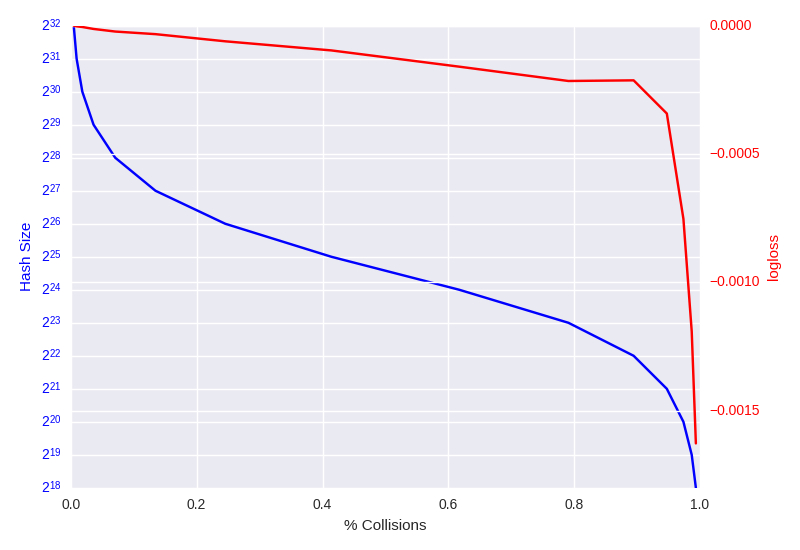
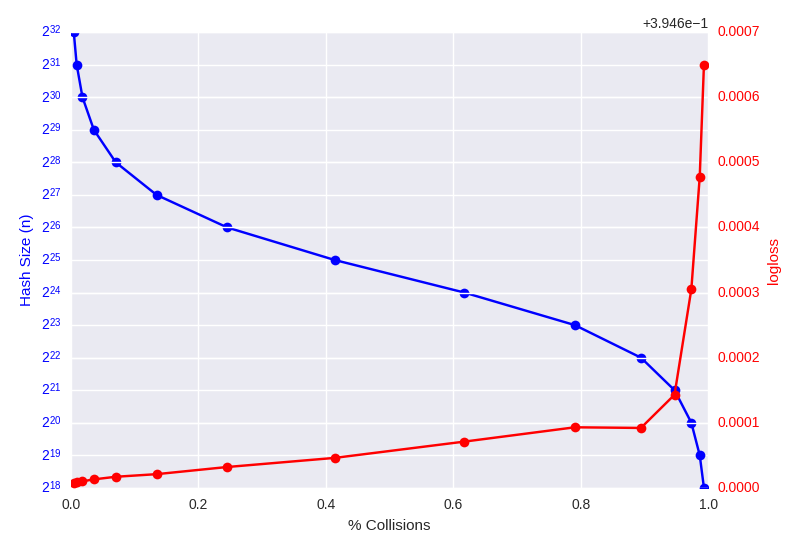
model fit charts

diff --git a/Plots.py b/Plots.py
@@ -7,7 +7,39 @@ def e_collisions(k, N):
 	c =  k-N*(1.-((N-1.)/N)**k)
 	return c
 
-def plot(prefix):
+def plot_model():
+	fig = plt.figure(figsize=(12,4))
+	for i, prefix in enumerate(['avazu', 'booking', 'criteo']):
+		ax = fig.add_subplot(1,3,i+1)
+
+	        data = csv.reader(open(prefix+'_col_log.csv'), delimiter=' ')
+	        n, c = [], []
+	        features = None
+	        for row in data:
+	                bits, features, coverage = map(float, row)
+	                n.append(2**bits)
+	                c.append(features-coverage)
+	        ec = []
+	        for ni in n:
+	                ec.append(e_collisions(features, ni))
+	        ax.plot(ec, c, 'o')
+
+	        z = np.polyfit(c, ec, 1)
+	        p = np.poly1d(z)
+		if i == 1:
+		        ax.set_xlabel('Expected Collisions according to the formula')
+	        if i == 0:
+			ax.set_ylabel('Actually observed collisiions')
+		ax.plot(c,p(c),'r-', label='Linear Fit')
+		if i == 0:
+			ax.legend(loc=2)
+		ax.set_title(prefix)
+	        #plt.annotate('y=%.6fx+(%.6f)'%(z[0],z[1]), xy=(0,0), xycoords='data')
+	plt.tight_layout()
+        plt.savefig('article/'+prefix+'_model_fit.png')
+
+
+def plot_impact(prefix):
 	data = csv.reader(open(prefix+'_col_log.csv'), delimiter=' ')
 	x, n, c = [], [], []
 	features = None
@@ -19,9 +51,9 @@ def plot(prefix):
 
 	fig, ax1 = plt.subplots()
 	ax1.set_yscale('log', basey=2)
-	ax1.plot(x, n, 'b-')
+	ax1.plot(x, n, 'bo-')
 	ax1.set_xlabel('% Collisions')
-	ax1.set_ylabel('Hash Size', color='b')
+	ax1.set_ylabel('Hash Size (n)', color='b')
 	ax1.tick_params('y', colors='b')
 
 	data = csv.reader(open(prefix+'_hash_log.csv'), delimiter=' ')
@@ -30,30 +62,15 @@ def plot(prefix):
 		bits, loss = map(float, row)
 		l.append(loss)
 
-	for i, v in enumerate(l):
-		l[i] = 1-v/l[-1]
-
 	ax2 = ax1.twinx()
-	ax2.plot(x, l, 'r-')
+	ax2.plot(x, l, 'ro-')
 	ax2.set_ylabel('logloss', color='r')
 	ax2.tick_params('y', colors='r')
 
 	fig.tight_layout()
 	plt.savefig('article/'+prefix+'_impact.png')
-	plt.clf()
 
-	ec = []
-	for ni in n:
-		ec.append(e_collisions(features, ni))
-	plt.plot(c, ec, 'o')
-
-	z = np.polyfit(c, ec, 1)
-	p = np.poly1d(z)
-	plt.plot(c,p(c),'r-')
-	#print 'y=%.6fx+(%.6f)'%(z[0],z[1])
-
-	plt.show()
-
-plot('avazu')
-plot('booking')
-plot('criteo')
+plot_model()
+plot_impact('avazu')
+plot_impact('booking')
+plot_impact('criteo')
